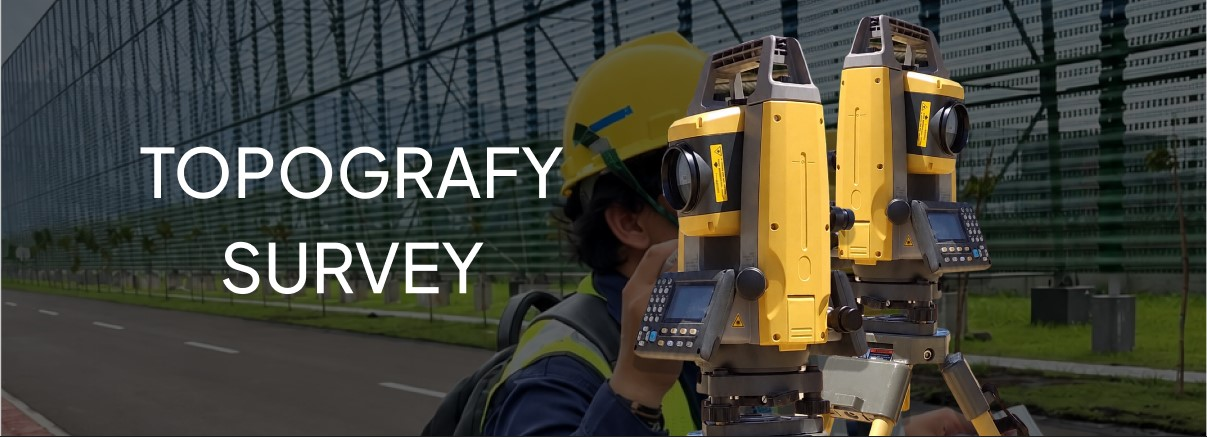
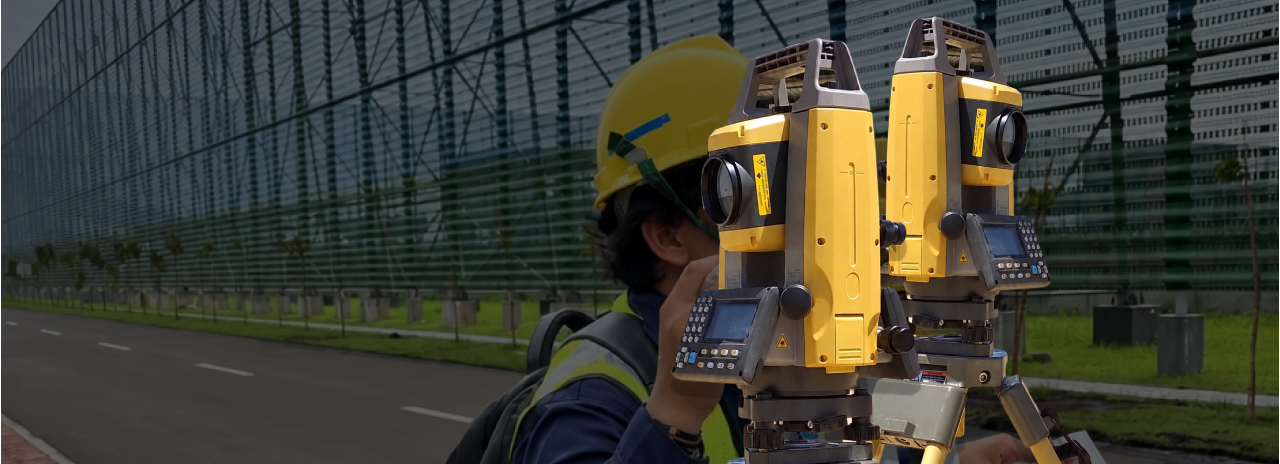
feat: add new service images and update homepage layout for improved content flow

diff --git a/resources/css/pages.css b/resources/css/pages.css
@@ -315,8 +315,10 @@
     width: 100%;
     overflow: hidden;
 
-    aspect-ratio: 2.2 / 1;
-    min-height: 300px;
+    height: clamp(280px, 52svh, 430px);
+    min-height: 0;
+
+    aspect-ratio: auto;
 
     background: #152d4b;
 }
@@ -476,133 +478,3 @@
     }
 }
 
-/* =====================================
-   HOMEPAGE SERVICES - FIT VIEWPORT
-===================================== */
-
-.home-services {
-    display: flex;
-    flex-direction: column;
-
-    height: calc(100svh - 70px);
-    min-height: 0;
-
-    box-sizing: border-box;
-    overflow: hidden;
-
-    background: #061b3b;
-}
-
-/* Heading */
-.home-services-heading {
-    flex-shrink: 0;
-}
-
-/* Content */
-.home-services-content {
-    flex: 1;
-    min-height: 0;
-
-    display: flex;
-
-    padding: clamp(18px, 3svh, 30px) 0;
-    box-sizing: border-box;
-}
-
-/* Container */
-.home-services-content>.container {
-    width: min(var(--container-width), calc(100% - 40px));
-    max-width: 100%;
-    margin-inline: auto;
-
-    display: grid;
-    grid-template-rows: auto minmax(0, 1fr);
-    gap: clamp(16px, 2.5svh, 26px);
-
-    min-height: 0;
-}
-
-/* Introduction */
-.home-services-intro {
-    flex-shrink: 0;
-    margin-bottom: 0;
-}
-
-/* Slider */
-.home-service-slider {
-    width: 100%;
-    height: 100%;
-    min-height: 0;
-
-    aspect-ratio: auto;
-    max-height: none;
-
-    position: relative;
-    overflow: hidden;
-}
-
-/* Slider Track */
-.home-service-slider-track {
-    position: relative;
-    width: 100%;
-    height: 100%;
-}
-
-/* Slide Images */
-.home-service-slide img {
-    width: 100%;
-    height: 100%;
-    display: block;
-    object-fit: cover;
-    object-position: center;
-}
-
-
-/* =====================================
-   RESPONSIVE TABLET & MOBILE
-===================================== */
-
-@media (max-width: 860px) {
-
-    .home-services {
-        height: auto;
-        min-height: calc(100svh - 84px);
-        overflow: visible;
-    }
-
-    .home-services-content {
-        padding: 30px 0 40px;
-    }
-
-    .home-services-content>.container {
-        display: flex;
-        flex-direction: column;
-        gap: 25px;
-
-        width: min(var(--container-width), calc(100% - 40px));
-    }
-
-    .home-services-intro {
-        margin-bottom: 0;
-    }
-
-    .home-service-slider {
-        height: auto;
-        min-height: 350px;
-        aspect-ratio: 1.6 / 1;
-    }
-
-    .home-service-slider-track {
-        position: absolute;
-        inset: 0;
-    }
-}
-
-@media (max-width: 560px) {
-
-    .home-service-slider {
-        min-height: 360px;
-        aspect-ratio: 4 / 5;
-    }
-
-}

diff --git a/resources/views/pages/home.blade.php b/resources/views/pages/home.blade.php
@@ -5,8 +5,9 @@
 
 @section('content')
     @include('pages.home.sections.hero')
-    @include('pages.home.sections.about-preview')
     @include('pages.home.sections.services-preview')
+    @include('pages.home.sections.about-preview')
+
     @include('pages.home.sections.projects-preview')
     @include('pages.home.sections.blog-preview')
     @include('pages.home.sections.contact-cta')
